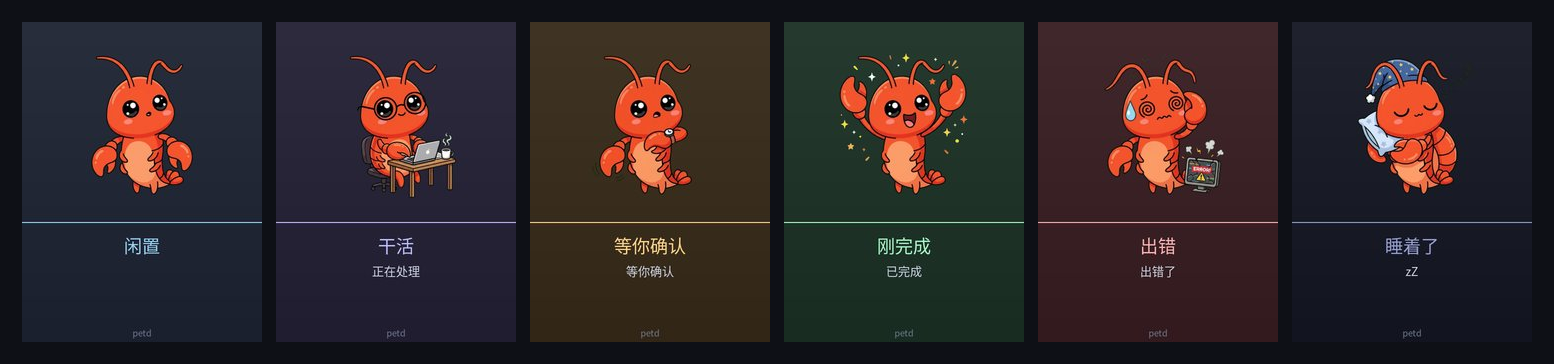
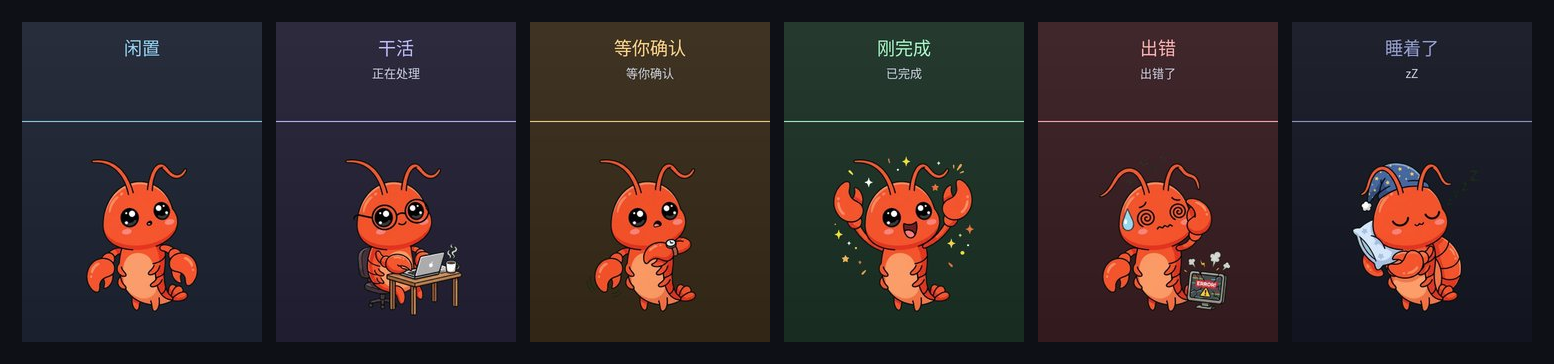
feat: 版式调换 —— 文字在上，宠物在下

diff --git a/petd/render.py b/petd/render.py
@@ -1,7 +1,8 @@
 """服务端整帧渲染：Pillow → JPEG。
 
 设备端零字体、零业务语义 —— 所有文字在这里烧进 JPEG。
-v1 只有三种信息密度，差别是表情区高度，文字区跟着变。
+版式：文字带在上，宠物在下 —— 跟功能卡一个顺序。
+密度只管文字带显示几行字，宠物大小不变。
 """
 import io
 import os
@@ -27,11 +28,11 @@ PALETTE = {
     "sleeping": {"bg": (18, 20, 32), "body": (108, 118, 172), "glow": (150, 160, 210)},
 }
 
-# 宠物区高度（逻辑 px）—— 固定，不随密度变。
+# 文字带高度（逻辑 px）—— 顶部那条，放状态词、副标题、会话名。
 #
-# 宠物大小不跟着密度缩放：背景和宠物是解耦的两件事，
-# 换一张背景不该让宠物跟着变大变小。密度只管下面放几行字。
-PET_FACE_H = 200
+# 文字在上、宠物在下：跟功能卡一个顺序。屏上不会一会儿头重脚轻，
+# 一会儿脚重头轻。宠物区因此固定，密度只管显示几行字。
+TEXT_BAND_H = 100
 
 STATE_CN = {
     "idle": "闲置",
@@ -105,10 +106,11 @@ def _gradient(img, top, bottom):
         d.line([(0, y), (w, y)], fill=col)
 
 
-def _scrim(img, top_y, bottom_y, max_alpha=215):
-    # 文字区铺一条由淡到浓的暗带。
+def _scrim(img, top_y, bottom_y, max_alpha=215, dense_top=True):
+    # 文字区铺一条暗带。
     # 文字压在背景图上得看得清 —— 用户自己画的背景可能是亮色。
-    # 顶端留一点底色（不然第一行状态词没对比度），往下逐渐加浓。
+    # dense_top=True  上浓下淡（文字带在顶部）
+    # dense_top=False 上淡下浓（文字区在底部）
     w, h = img.size
     top_y = max(0, min(h, int(top_y)))
     bottom_y = max(top_y, min(h, int(bottom_y)))
@@ -119,7 +121,10 @@ def _scrim(img, top_y, bottom_y, max_alpha=215):
     od = ImageDraw.Draw(ov)
     for y in range(top_y, bottom_y):
         t = (y - top_y) / max(1, band_h - 1)
-        a = int(max_alpha * (0.5 + 0.5 * t))
+        if dense_top:
+            a = int(max_alpha * (1.0 - 0.55 * t))
+        else:
+            a = int(max_alpha * (0.5 + 0.5 * t))
         od.line([(0, y), (w, y)], fill=(8, 10, 16, a))
     return Image.alpha_composite(img.convert("RGBA"), ov).convert("RGB")
 
@@ -272,31 +277,18 @@ def render_frame(cfg, state, subtitle="", session_name="", density=1,
         _gradient(big, tuple(min(255, c + 14) for c in pal["bg"]), pal["bg"])
 
     density = max(0, min(2, int(density)))
-    face_px = PET_FACE_H * scale
+    band_px = TEXT_BAND_H * scale
 
-    # 宠物区 —— 高度固定，密度不影响它
-    pet = Image.new("RGBA", (width * scale, face_px), (0, 0, 0, 0))
-    if skin_image is not None:
-        # 皮肤图 —— 一态一张，等比缩放，不拉伸
-        sw, sh = skin_image.size
-        box_w = width * scale
-        box_h = face_px
-        factor = min(box_w / sw, box_h / sh)
-        nw, nh = max(1, int(sw * factor)), max(1, int(sh * factor))
-        frame = skin_image.resize((nw, nh), Image.LANCZOS)
-        pet.paste(frame, ((box_w - nw) // 2, (box_h - nh) // 2), frame)
-    big.paste(pet, (0, 0), pet)
-
+    # 文字带在顶部 —— 铺一条上浓下淡的暗带，字压在亮背景上也读得清
+    if has_bg:
+        big = _scrim(big, 0, band_px, dense_top=True)
     d = ImageDraw.Draw(big)
     if not has_bg:
-        # 有背景图时分隔线太硬，靠底部暗带分开就行
-        d.line([(0, face_px), (width * scale, face_px)], fill=pal["glow"] + (70,), width=2)
-    else:
-        big = _scrim(big, face_px, height * scale)
-        d = ImageDraw.Draw(big)
+        d.line([(0, band_px - int(1 * scale)), (width * scale, band_px - int(1 * scale))],
+               fill=pal["glow"] + (70,), width=2)
 
-    # 文字区
-    ty = face_px + int(10 * scale)
+    # 文字区 —— 从文字带顶部往下排
+    ty = int(12 * scale)
     cjk = _font(18)[1]
     label = STATE_CN.get(state, state) if cjk else STATE_EN.get(state, state)
     _center(d, width * scale // 2, ty, label, int(18 * scale), pal["glow"])
@@ -316,15 +308,26 @@ def render_frame(cfg, state, subtitle="", session_name="", density=1,
             _center(d, width * scale // 2, ty, session_name[:26], int(11 * scale), (150, 160, 185))
         ty += int(18 * scale)
 
-    # 页脚提示
-    _center(d, width * scale // 2, height * scale - int(16 * scale),
-            "petd", int(9 * scale), (110, 118, 140))
-
-    # 功德计数 —— 常驻左下角。飘字只是一瞬间，
-    # 想看累计值的时候得有个地方能看。
+    # 功德计数 —— 常驻左上角。宠物挪到底下，这里才不会被压到。
+    # 飘字只是一瞬间，想看累计值的时候得有个地方能看。
     if merit:
-        _text(d, (int(6 * scale), height * scale - int(16 * scale)),
+        _text(d, (int(6 * scale), int(10 * scale)),
               "功德 %d" % int(merit), int(9 * scale), (150, 158, 180))
+
+    # 宠物区 —— 底部，高度固定，密度不影响它
+    pet_h = height * scale - band_px
+    pet = Image.new("RGBA", (width * scale, pet_h), (0, 0, 0, 0))
+    if skin_image is not None:
+        # 皮肤图 —— 一态一张，等比缩放，不拉伸。
+        # 整幅缩放，不裁到墨迹：六态墨迹范围不一样，
+        # 一裁，宠物切状态时就会上下跳。
+        sw, sh = skin_image.size
+        box_w = width * scale
+        factor = min(box_w / sw, pet_h / sh)
+        nw, nh = max(1, int(sw * factor)), max(1, int(sh * factor))
+        frame = skin_image.resize((nw, nh), Image.LANCZOS)
+        pet.paste(frame, ((box_w - nw) // 2, (pet_h - nh) // 2), frame)
+    big.paste(pet, (0, band_px), pet)
 
     img = big.resize((width, height), Image.LANCZOS)
     if overlay is not None:

diff --git a/tests/test_backgrounds.py b/tests/test_backgrounds.py
@@ -107,19 +107,24 @@ def test_density_no_longer_scales_the_pet():
     from PIL import Image, ImageChops
     a = Image.open(io.BytesIO(render.render_frame(cfg, "idle", density=0))).convert("RGB")
     b = Image.open(io.BytesIO(render.render_frame(cfg, "idle", density=2))).convert("RGB")
-    # 表情区（顶部 200 逻辑 px）两档必须完全一样
-    assert ImageChops.difference(a.crop((0, 0, 240, 400)), b.crop((0, 0, 240, 400))).getbbox() is None
+    # 宠物区（底部，文字带以下）两档必须完全一样
+    band = render.TEXT_BAND_H
+    assert ImageChops.difference(a.crop((0, band, 240, 320)),
+                                 b.crop((0, band, 240, 320))).getbbox() is None
 
 
 def test_density_2_text_is_visible():
-    """大号档的副标题和会话名得在画布内 —— 之前它们画到画布外去了。"""
+    """详细档的副标题和会话名得在画布内 —— 之前它们画到画布外去了。
+
+    探针文字用 ASCII：没装中文字体的机器（CI runner）上中文会被过滤掉，
+    那样这个断言就测不到任何东西了。
+    """
     cfg = config_mod.defaults()
     import io
-    from PIL import Image
+    from PIL import Image, ImageChops
     a = Image.open(io.BytesIO(render.render_frame(cfg, "idle"))).convert("RGB")
     b = Image.open(io.BytesIO(
-        render.render_frame(cfg, "idle", "探针文字", "会话名", density=2))).convert("RGB")
-    from PIL import ImageChops
+        render.render_frame(cfg, "idle", "PROBE-TEXT", "SESSION", density=2))).convert("RGB")
     assert ImageChops.difference(a, b).getbbox() is not None
 
 

diff --git a/docs/美术规范.md b/docs/美术规范.md
@@ -54,7 +54,8 @@ petd/data/backgrounds/  # 用户自己上传的，同名盖掉仓库那份
 背景只铺在宠物那一屏。切到内容卡时背景退场，卡片用自己的底 ——
 卡上要放字，背景压在上面会干扰可读性。
 
-宠物区高度固定 240×200，**不随信息密度变化** —— 密度只管下面放几行字。
+文字带高度固定 240×100（在顶部），**不随信息密度变化** —— 密度只管带里放几行字。
+宠物区占剩下的 240×220，在底部。
 
 ## 三种信息密度
 
@@ -72,24 +73,30 @@ petd/data/backgrounds/  # 用户自己上传的，同名盖掉仓库那份
 
 ```
 ┌────────────────────────┐
-│                        │
-│      表情区             │  ← 固定 240×200，背景铺在底下
-│                        │
-│                        │
-├────────────────────────┤
-│  状态文字区             │  ← Pi 侧 Pillow 渲染
+│  状态文字区             │  ← Pi 侧 Pillow 渲染，固定 240×100
+│  「干活」                │
 │  「正在跑工具」          │
 │  「my-train 后端」       │
+├────────────────────────┤
+│                        │
+│      宠物区             │  ← 固定 240×220，背景铺在底下
+│                        │
 └────────────────────────┘
 ```
 
-- 表情区：240 × 200（固定）
-- 文字区：剩余高度，档位决定显示几行
+- 文字带：240 × 100（顶部，固定）
+- 宠物区：240 × 220（底部，固定）
 - 文字**由 petd 渲染**，不要求美术出带字的图
+
+**文字在上、宠物在下** —— 功能卡也是这个顺序，屏上两种版式统一。
+宠物踩在底部，正好落在背景的地板上。
 
 ## 状态怎么区分
 
-表情区贴的是那一态的图，六态各一张。**不做帧动画** —— 状态跳变时直接换图。
+宠物区贴的是那一态的图，六态各一张。**不做帧动画** —— 状态跳变时直接换图。
+
+六态的墨迹范围不一样（y=47~283），所以整幅等比缩放，**不裁到墨迹** ——
+一裁，宠物切状态时就会上下跳。
 
 | 状态 | 画面 |
 |---|---|

diff --git a/CHANGELOG.md b/CHANGELOG.md
@@ -47,7 +47,11 @@
 
 ### Changed
 
-- **宠物大小不再随信息密度变化** —— 表情区固定 240×200，密度只管下面显示几行字。背景和宠物解耦之后，宠物再跟着密度缩放就不对了
+- **版式调换：文字在上，宠物在下** —— 屏上两种版式统一了
+  - 功能卡本来就是「文字在上、宠物在下」，只有宠物帧反着来
+  - 宠物踩在底部，正好落在背景的地板上（美术六态底下都留了 37~43px 地板空地）
+  - 文字带固定 240×100 在顶部，宠物区 240×220 在底部；密度只管带里放几行字
+- **宠物大小不再随信息密度变化** —— 表情区固定，密度只管显示几行字。背景和宠物解耦之后，宠物再跟着密度缩放就不对了
   - 顺带修掉一个 bug：详细档的副标题和会话名原本画在画布外，等于从来没显示过
 - **README 改为产品门面** —— 首屏产品图 + 三条卖点，快速开始分「没有硬件」与「真机」两条路径
 - **部署手册收敛为一条主路径** —— 七步主线，可选项拆到 `deploy/README.md` 与后台文档
@@ -58,6 +62,9 @@
 
 ### Fixed
 
+- **删掉屏底那行「petd」水印** —— 纯标识，没有功能
+- **功德计数从左下角挪到左上角** —— 宠物挪到底下，左下角会被压到
+- **CI 装上中文字体** —— GitHub runner 默认不带 CJK 字体，屏上文字渲染出来是空白。测试探针改用 ASCII，中文字体本身作为 CI 依赖装上
 - **LICENSE 正文截断** —— 缺 §3 专利授权终止条款等，GitHub 无法识别为 Apache-2.0。已按官方原文还原
 - **状态优先级写反** —— `state_rules.json` 把 `error` 排在 `waiting` 前，与代码默认值和文档相反，导致「等你批准」显示成「出错」。已改回 `waiting > error > working > done > idle`，并加回归测试
 - **gateway token 可能被写进配置文件** —— 写盘时若原文件没有 token，则不写入新值

diff --git a/docs/协议.md b/docs/协议.md
@@ -171,7 +171,7 @@ binary 消息 = **完整 JPEG**（`FFD8` … `FFD9`），**不带任何自定义
 ## 7. 信息密度（服务端语义）
 
 屏上不再有「页面」—— 只有宠物脸和 feature 卡片，整屏互斥。
-密度只影响宠物脸那一屏放多少东西（表情区高度）。
+宠物那一屏是「文字带在上、宠物在下」，密度只影响文字带显示几行字（1 / 2 / 3 行）。
 
 | 动作 | 语义 |
 |---|---|
